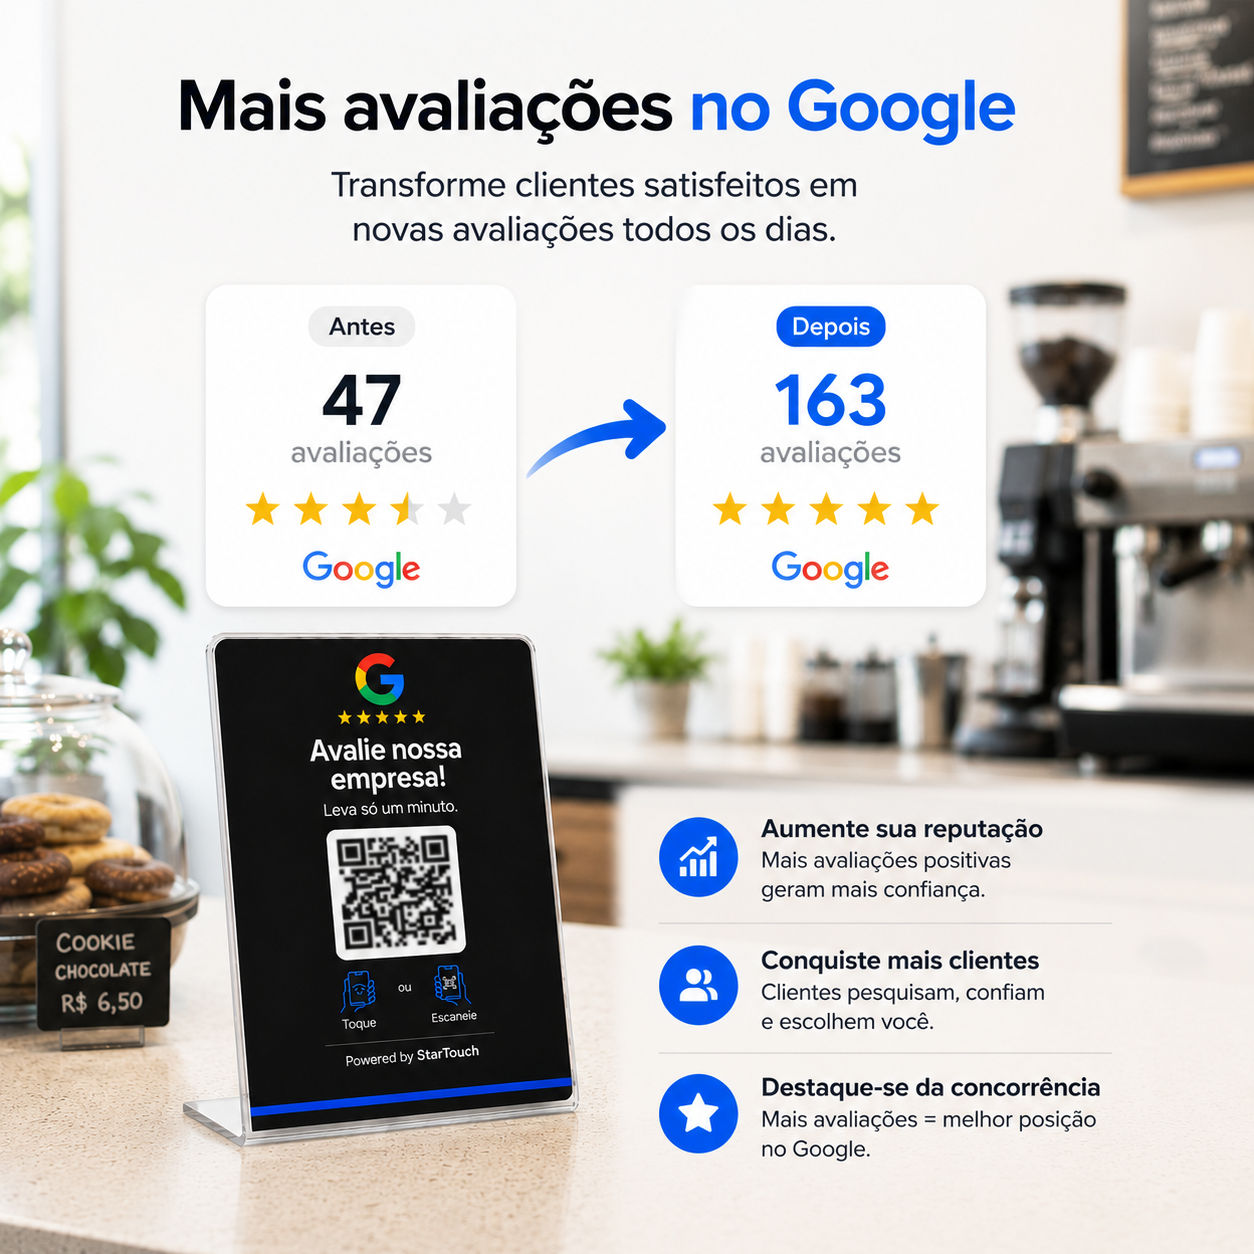
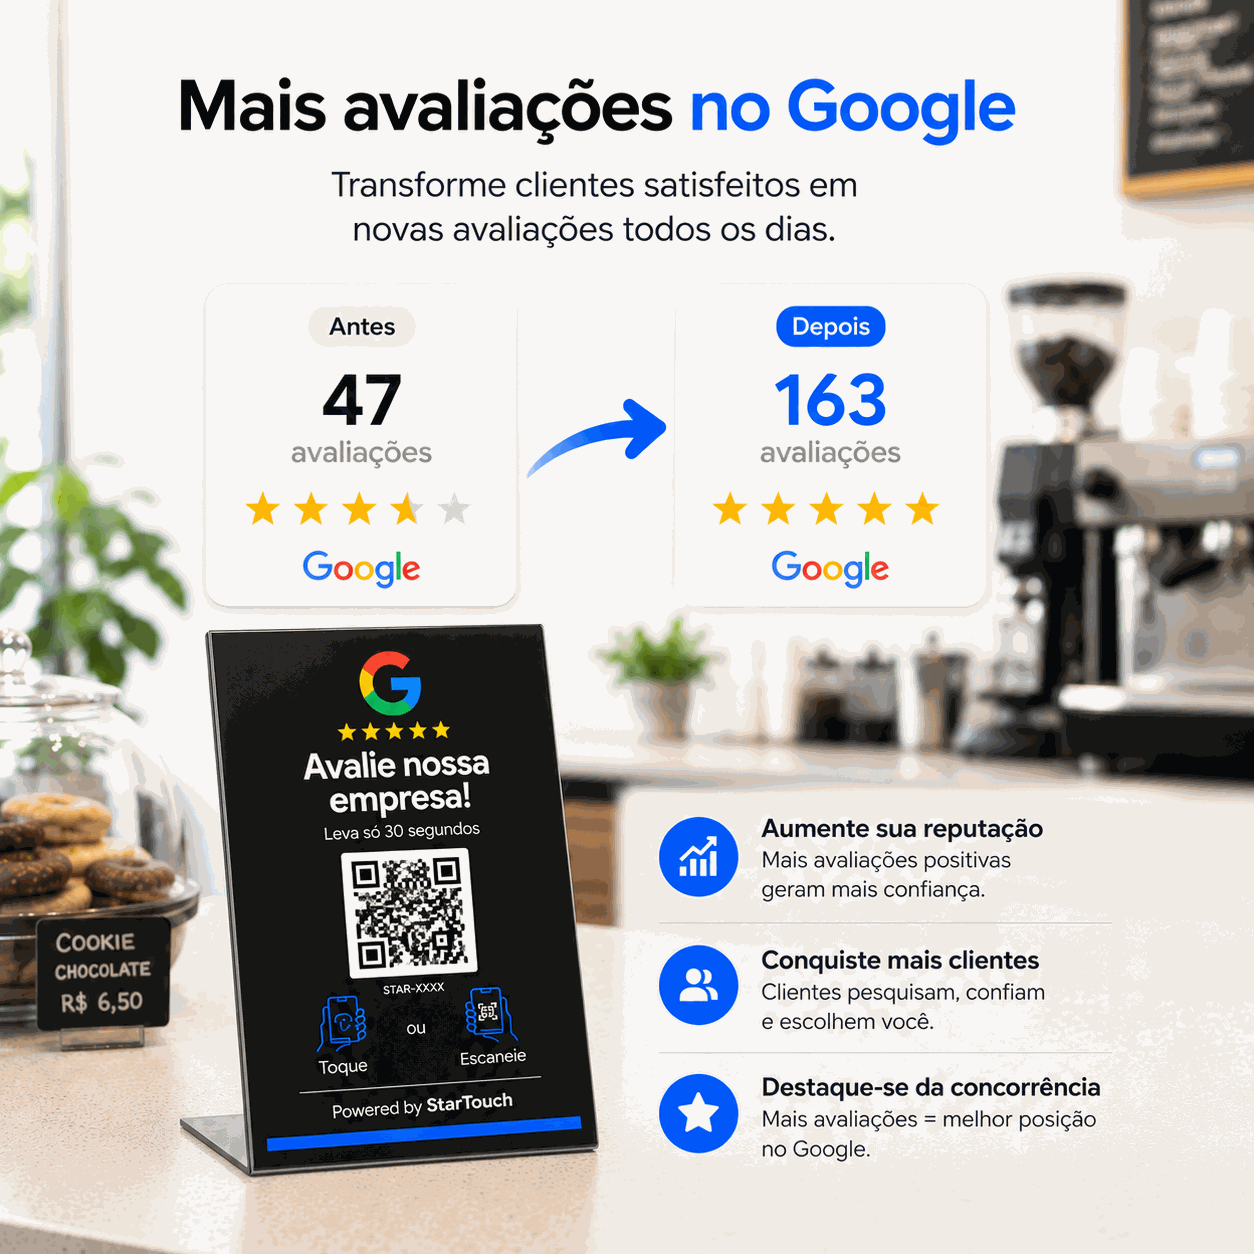
feat(produto): foto "antes e depois" da Placa G em PS preto
Substitui placa-g-5.png. Conferi a anterior antes de trocar: e EXATAMENTE a
mesma peca de marketing, so com a placa de acrilico e o texto antigo da arte
("Leva so um minuto" virou "Leva so 30 segundos"). Ou seja, troca de material
pura — nenhuma afirmacao nova entra no site por causa dela.

1.649 KB -> 197 KB, 256 cores como as outras fotos de ambiente.

O alt passou a dizer "comparativo ILUSTRATIVO" e a citar os numeros que
aparecem na imagem (47 -> 163). Antes dizia so "antes e depois: mais
avaliacoes no Google", que escondia de quem nao enxerga justamente a parte
que faz a peca funcionar — e o numero.

Falta duas: placa-m-3 (recepcao) e placa-m-4 (avaliando).

Claude-Session: https://claude.ai/code/session_01S5eKpJUpAx1ZzX8rzRNBTg

diff --git a/public/landing.html b/public/landing.html
@@ -4603,7 +4603,7 @@
             <button class="eco-gallery-thumb" type="button" data-full="/placa-g-2.png" aria-label="Ver foto 2 — de frente"><img src="/placa-g-2.png" alt="Placa de Balcão G vista de frente — PS preto 2 mm" loading="lazy"/></button>
             <button class="eco-gallery-thumb" type="button" data-full="/placa-g-3.png" aria-label="Ver foto 3 — no balcão de um café"><img src="/placa-g-3.png" alt="Placa de Balcão G no balcão de um café, ao lado da maquininha: &quot;Perfeita para balcões e recepções — instale em segundos e comece a receber avaliações&quot;" loading="lazy"/></button>
             <button class="eco-gallery-thumb" type="button" data-full="/placa-g-4.png" aria-label="Ver foto 4 — aproximando o celular"><img src="/placa-g-4.png" alt="Cliente aproximando o celular da Placa de Balcão G e a tela do Google já aberta para avaliar: &quot;Basta aproximar o celular — sem aplicativo, sem cadastro, sem complicação&quot;" loading="lazy"/></button>
-            <button class="eco-gallery-thumb" type="button" data-full="/placa-g-5.png" aria-label="Ver foto 5 — antes e depois"><img src="/placa-g-5.png" alt="Antes e depois: mais avaliações no Google com a Placa G" loading="lazy"/></button>
+            <button class="eco-gallery-thumb" type="button" data-full="/placa-g-5.png" aria-label="Ver foto 5 — antes e depois"><img src="/placa-g-5.png" alt="Comparativo ilustrativo de antes e depois no Google, de 47 para 163 avaliações, com a Placa de Balcão G no balcão" loading="lazy"/></button>
           </div>
         </div>
         <div class="eco-gallery-body">
